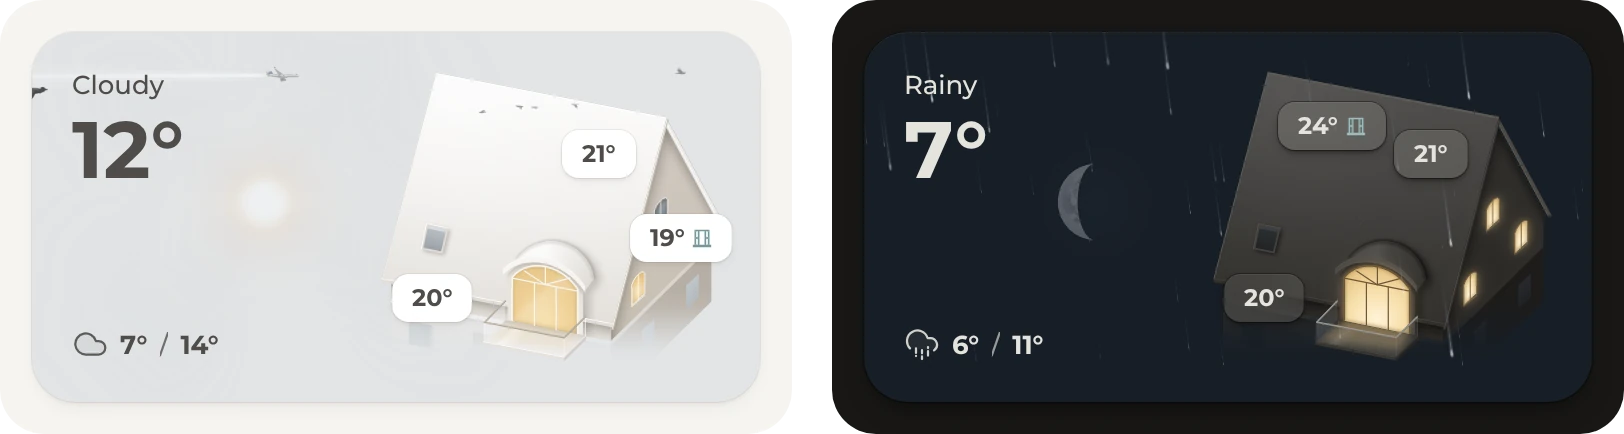
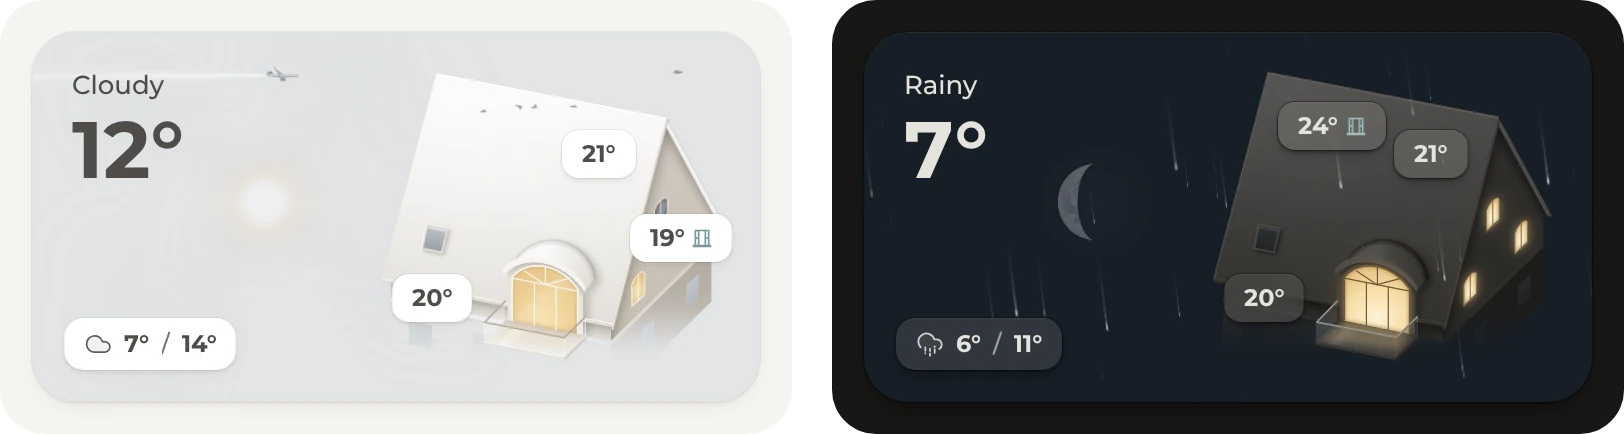
Weather: a part for each card in the README with the details folded away, the house's low and high on a chip, and faint tiles on the comparison card

Changed region(s): [[0.0308, 0.7189, 0.1539, 0.8687], [0.5542, 0.7189, 0.6773, 0.8687]]

diff --git a/dashboard/weather/README.md b/dashboard/weather/README.md
@@ -1,18 +1,60 @@
 # Weather
 
+Origami Weather is the part that took the longest by far, many hundreds of hours in 2026. It grew into a small builder for weather cards, so nearly anything is possible, from a realistic sky to a classic forecast or something quite exotic. The three cards here are only a start and some inspiration. The one on the maintainer's own dashboard changes all the time, just because a new look now and then keeps it fun.
+
+<details>
+<summary><b>Calm on purpose</b></summary>
+
+<br>
+
+All three cards keep the weather calm, and the house and the comparison card leave out most of its effects, such as the drifting clouds. That's only a matter of taste: after a year of looking at weather animations, the maintainer likes them toned down. Origami Weather can show much more, such as clouds, rain, snow and thunderstorms, stars with shooting stars, and birds, planes and balloons now and then. Each effect has an option of its own, and its [README](https://github.com/hazymorning/origami_weather#backgrounds) shows them all.
+
+</details>
+
+### Diorama
+
 <img width="800" alt="The diorama card, a paper landscape for each kind of weather: a partly cloudy midday with the sun above the hills, and a snowy night, in light and dark mode" src="https://raw.githubusercontent.com/hazymorning/origami/next/images/v3/weather.webp">
+
+A little paper landscape for each kind of weather, the one layout made for Origami. The sun and the moon cross the sky and set behind the hills, and it's the card on the home view. [`diorama.yaml`](diorama.yaml)
+
+<details>
+<summary><b>Another landscape, or a house</b></summary>
+
+<br>
+
+The diorama is a set of pictures, one for each kind of weather in light and dark mode, named after the weather, such as `rainy.webp`. Any other place works the same way, such as a beach, a city or a house. The card loads the pictures from [`diorama`](diorama) in this repository, so a home needs no files of its own. Pictures of one's own go into the `www` folder of Home Assistant's configuration, and `weather_image_path` and `weather_image_path_dark` then point to `/local/` followed by their folder.
+
+</details>
+
+### House
 
 <img width="800" alt="The house card, a house whose rooms light up and show how warm they are: a gray midday with the living room lit, and a rainy night with three rooms lit, in light and dark mode" src="https://raw.githubusercontent.com/hazymorning/origami/next/images/v3/weather-house.webp">
 
+A house whose rooms light up with the home's lights and show how warm they are, with the day's weather, low and high on a chip below the temperature. [`house.yaml`](house.yaml)
+
+<details>
+<summary><b>The home's own house</b></summary>
+
+<br>
+
+The house is a drawing, with one more picture for each room's light, and the card loads them from [`house`](house) in this repository. A drawing of the home's own house works the same way, and the [Origami Weather README](https://github.com/hazymorning/origami_weather#layouts) explains how to have one drawn. The pictures go into the `www` folder of Home Assistant's configuration, and the card loads them as `/local/` followed by their names.
+
+</details>
+
+### Comparison
+
 <img width="800" alt="The comparison card, whose color follows the weather, with the next days on tiles: a rainy midday and a clear night, in light and dark mode" src="https://raw.githubusercontent.com/hazymorning/origami/next/images/v3/weather-comparison.webp">
 
-Origami Weather is the part that took the longest by far, many hundreds of hours in 2026. It grew into a small builder for weather cards: a sky that moves with the weather, a picture for each kind of weather, a drawn house, values, chips, rings and forecasts, placed wherever they fit. So nearly any weather card is possible, and the three here are only a start:
+Origami Weather's Comparison layout in calm colors, with the next days on tiles, the temperature on a bar and the chance of rain. Only the color changes with the weather. [`comparison.yaml`](comparison.yaml)
 
-- [`diorama.yaml`](diorama.yaml): a paper landscape for each kind of weather, with its own pictures for light and dark mode. The sun and the moon cross the sky and set behind the hills. It's the card on the home view.
-- [`house.yaml`](house.yaml): a house whose rooms light up with the home's lights and show how warm they are, with the day's low and high under the temperature.
-- [`comparison.yaml`](comparison.yaml): Origami Weather's Comparison layout in calm colors, with the next days on tiles and the chance of rain. Only its color changes with the weather.
+<details>
+<summary><b>With the sky behind it</b></summary>
 
-The weather card has the best spot on the home view, and like every part, it's meant to be changed to taste. The one on the maintainer's own dashboard changes all the time, just because a new look now and then keeps it fun.
+<br>
+
+At the top of its file, the card turns off the sun, the moon and every effect, and gives each kind of weather a color. Without those lines, the same layout stands on Origami Weather's own sky, with everything that moves in it.
+
+</details>
 
 ## Requirements
 
@@ -30,9 +72,6 @@ The weather card has the best spot on the home view, and like every part, it's m
 
 - **Lit rooms.** For the house card in a home with lights. The house has a living room, a kitchen, a bedroom and an office, and their windows light up while their light is on. Change `light.living_room`, `light.kitchen`, `light.bedroom` and `light.office` to the home's lights, such as a light group for each room. Without a light, its room stays dark.
 - **Room temperatures.** For the house card in a home with temperature sensors. The office and the kitchen always show their temperature, and the bathroom and the bedroom show theirs while a window is open. Change the sensors and the window contacts in the last block of [`house.yaml`](house.yaml) to the home's. A room without a sensor shows no temperature.
-
-> [!TIP]
-> The diorama's pictures and the house load from this folder of the repository, from [`diorama`](diorama) and [`house`](house), so a home needs no files of its own. Pictures of one's own, such as the real home drawn in the house's style as the [Origami Weather README](https://github.com/hazymorning/origami_weather#layouts) explains, go into the `www` folder of Home Assistant's configuration, and the card loads them as `/local/` followed by their names.
 
 ## Entities
 

diff --git a/CHANGELOG.md b/CHANGELOG.md
@@ -157,7 +157,7 @@ These changes are in the `next` branch and come with the next release.
 - The navbar follows the rules of the Bubble cards. A line along the bottom of the now playing card shows how far the track has played.
 - The favorites are tiles in one row that scrolls sideways, or in a grid for a larger screen. The README shows both.
 - The lights pop-up shows how many lamps are on and since when. Each scene shows its colors in a rounded square, with the theme's corners, and its brightness under its name, and a small dot before its brightness marks the active scene.
-- The weather part has three cards: a paper diorama with a picture for each kind of weather, which the home view shows, a house whose rooms light up and show their temperature, with the day's low and high, and Origami Weather's Comparison layout in calm colors that follow the weather. The pictures load from the repository, so a home needs no files of its own.
+- The weather part has three cards: a paper diorama with a picture for each kind of weather, which the home view shows, a house whose rooms light up and show their temperature, with the day's weather, low and high on a chip, and Origami Weather's Comparison layout in calm colors that follow the weather. The pictures load from the repository, so a home needs no files of its own.
 - In the room pop-ups, the light card's arrow to the lamps stands beside its slider, as in the lights pop-up, and the bathroom has the same light card as the living room, with its two lamps and its scenes. Only the living room's lights header opens the lights pop-up. The bathroom's opens the light group's dialog, which lists each lamp.
 
 ### Bug fixes
